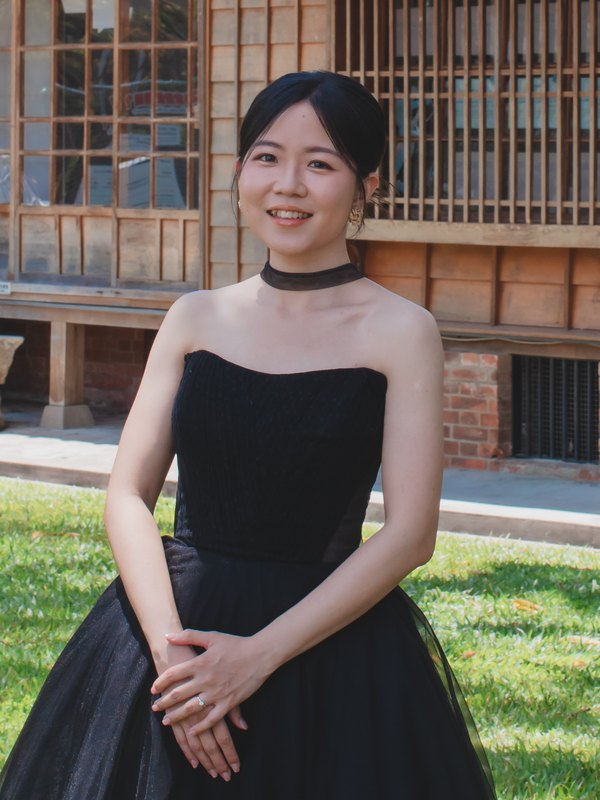
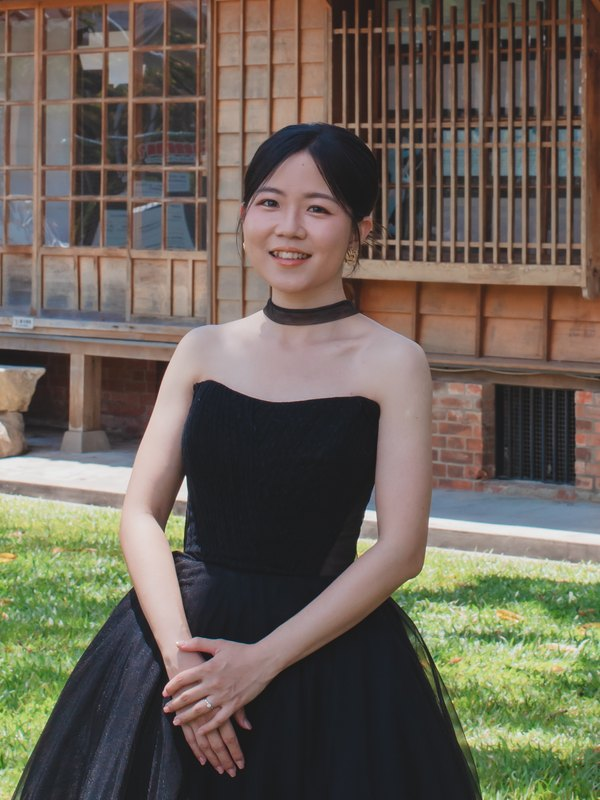
feat(about): 新娘照頭頂與新郎同高，雙手仍完整露出
取景改為原圖 (1073, 2840) 起 1714×2286：頭頂與新郎同在 y≈125、身體左右置中、交疊的雙手完整入鏡（指尖 y≈775）；三個條件同時成立，人物比新郎小約 14%。

diff --git a/src/app/core/config/wedding-content.ts b/src/app/core/config/wedding-content.ts
@@ -450,8 +450,9 @@ export interface AboutProfile {
  * 兩段描述請維持在 58～62 字、字數相近，字數跑掉兩張卡會不等高、中央的 & 會失去對稱。
  *
  * 照片為新人提供的真實單人照，裁成 600×800，人物大小以新郎為基準（新郎頭頂 y≈125、下巴 y≈308）。
- * 新娘原圖（dobe-5172，全身照）取 (1140, 3005) 起 1579×2105 的範圍再縮小：身體（兩肩中心）左右置中，
- * 交疊在腰前的雙手要完整露出，所以人物比新郎小約 6%、頭頂較高（y≈73）—— 再放大手就會被切掉。
+ * 新娘原圖（dobe-5172，全身照）取 (1073, 2840) 起 1714×2286 的範圍再縮小：身體（兩肩中心）左右置中、
+ * 頭頂與新郎同在 y≈125，交疊在腰前的雙手完整露出（指尖 y≈775）。三個條件同時成立的代價是
+ * 人物比新郎小約 14% —— 再放大，不是頭頂要往上移、就是手會被切掉。
  * 換照片時要重新量這幾個位置，兩張卡才看起來一樣大。
  * 路徑不加開頭斜線 —— 網站部署在 GitHub Pages 子路徑下，絕對路徑會在上線後 404。
  */
